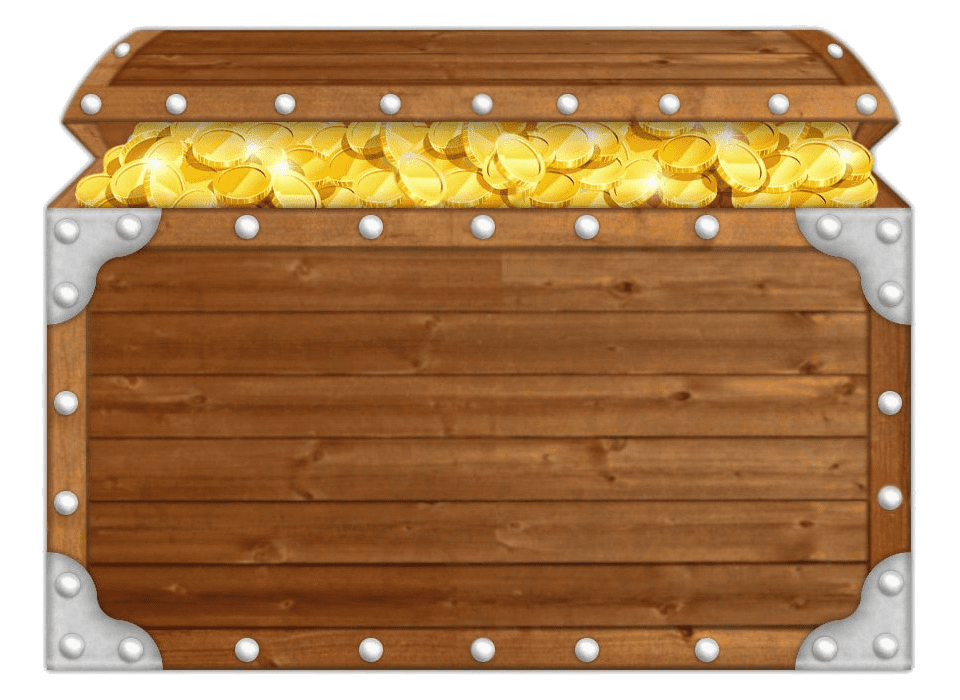
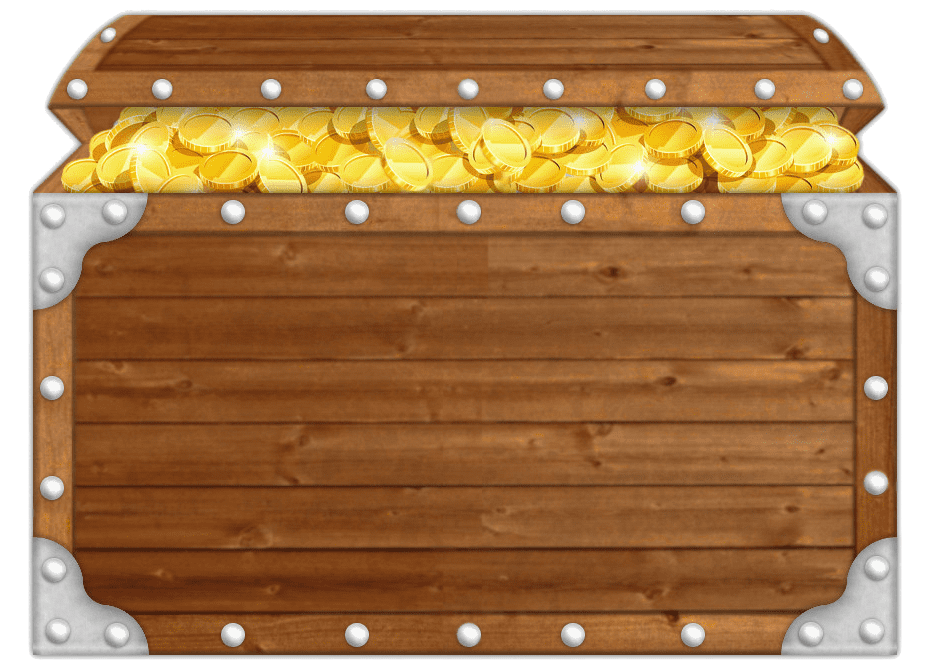
new alerts, new box, fixed view for firefox

diff --git a/views/game/game.html b/views/game/game.html
@@ -20,13 +20,12 @@
             </select>
          </p>
          <p>Способ доставки:
-            <select required ng-model="dostavka">
+            <select required ng-model="dostavka" ng-options="dostavka as dostavka.sposob for dostavka in detail.dostavka">
                <option value="" disabled selected>Выберите способ доставки</option>
-               <option ng-repeat="dostavka in detail.dostavka">{{dostavka.sposob}}</option>
             </select>
          </p>
          <p>Ник персонажа:
-            <input ng-model="nickname" pattern="^[а-яА-ЯёЁa-zA-Z0-9/.^!|$%&*#-_?:https??@?]{3,20}$" required placeholder="Введите ник персонажа">
+            <input required ng-model="nickname" pattern="^[а-яА-ЯёЁa-zA-Z0-9/.^!|$%&*#-_?:https??@?]{3,20}$" placeholder="Введите ник персонажа">
          </p>
          <p class="col-sm-6">Получу:
             <input required ng-model="model.name" pattern="^[0-9.]{0,13}$">
@@ -41,13 +40,12 @@
       </div>
       <div class="col-sm-6">
          <p>Сторона:
-            <select>
-               <option disabled selected>Выберите сторону</option>
-               <option ng-repeat="storona in detail.storonu">{{storona.name}}</option>
+            <select ng-model="storona" ng-options="storona as storona.name for storona in detail.storonu">
+               <option value="" disabled selected>Выберите сторону</option>
             </select>
          </p>
          <p>Електронный адрес:
-            <input ng-model="email" type="email" placeholder="Введите ваш e-mail" required>
+            <input required ng-model="email" type="email" placeholder="Введите ваш e-mail">
          </p>
          <p>Контактные данные:
             <input ng-model="contacts" required pattern="^[а-яА-ЯёЁa-zA-Z0-9/.\s-_?:https?]{5,150}$" placeholder="Введите ваш vk, skype и т.п.">
@@ -62,13 +60,15 @@
             </select>
          </p>
       </div>
-      <p id="error" ng-style="error">Укажите сервер, чтобы посчитать валюту</p>
       <div id="zakazat">
          <button type="submit" class="btn btn-success">Отправить заказ
             <span class="indicator glyphicon glyphicon-ok" ng-hide="zakaz.$invalid"></span>
             <span class="indicator glyphicon glyphicon-remove" ng-show="zakaz.$invalid"></span>
          </button>
       </div>
+   </div>
+   <div class="alert alert-info" ng-hide="model.selectedCategory">
+      <strong>Внимание!</strong> Чтобы посчитать цену, нужно выбрать сначала сервер!
    </div>
    <div class="alert alert-danger" ng-show="zakaz.$invalid">
       <strong>Ваш заказ не готов к обработке!</strong> Пожалуйста, заполните все необходимые поля. Когда заказ будет готов к отправке, индикатор <span class="glyphicon glyphicon-remove"></span> измениться на <span class="glyphicon glyphicon-ok".></span> и это сообщение пропадет.
@@ -78,7 +78,7 @@
    </div>
 </form>
 
-<div class="panel panel-default">
+<div class="panel panel-default tabl">
    <div class="panel-heading">Цены на игровую валюту {{detail.title}}</div>
    <table class="table">
       <thead>

diff --git a/views/game/game.css b/views/game/game.css
@@ -1,7 +1,7 @@
 #sunduk{
    font-family: OpenSans-Semibold, sans-serif;
    text-shadow: 2px 1px 1px #000;
-   padding-top: 28%;
+   padding-top: 26%;
    padding-bottom: 8%;
    padding-left: 10%;
    padding-right: 10%;
@@ -45,6 +45,8 @@
 }
 
 #sunduk button{
+   position: relative;
+   top: 4px;
    height: 45px;
    border: none;
    color: whitesmoke;
@@ -64,16 +66,6 @@
 #sunduk p{
    margin 0px;
    padding-left: 0px;
-}
-
-#error{
-   margin-bottom: 5px;
-/*   text-indent: 2.5%;*/
-   color: yellow;
-   text-shadow: none;
-   font-size: 90%;
-   text-align: center;
-   width: 50%;
 }
 
 #zakazat {
@@ -97,18 +89,21 @@ thead tr th{
    line-height: 14px !important;
    font-family: OpenSans-Bold, sans-serif !important;
 }
+
 .indicator{
    position: relative;
    top: 4px;
 }
-form{
-   display: flex;
-   flex-direction: column;
-   align-items: center;
-}
+
 .alert{
-   width: 93.5%;
-   position: relative;
-   top: -15px;
-   margin-bottom: 0px;
+   margin-top: 10px;
+   margin-bottom: 20px;
+}
+
+.alert-info{
+   margin-bottom: -3px;
+}
+
+.tabl{
+   margin-top: 10px;
 }

diff --git a/views/postavshikam/postavshikam.html b/views/postavshikam/postavshikam.html
@@ -19,7 +19,7 @@
       <p><br>Для добавления в поставщики следует написать по контактам или же заполнить форму ниже:</p>
       <form name="postavshik" ng-submit="submit()">
          <div class="thumbnail col-sm-8">
-            <select required ng-model="model.selectedCategory" ng-options="game as game.title for game in games">
+            <select required ng-model="selectgame" ng-options="game as game.title for game in games">
                <option value="" disabled selected>Выберите игру</option>
             </select>
             <textarea pattern="^[а-яА-ЯёЁa-zA-Z0-9/.\s-_?:https??@?]{10,250}$" ng-model="data" placeholder="Укажите сервер и количество игровой валюты. Если вы заходете в игру в определенное время суток - напишите нам об этом" required></textarea>

diff --git a/css/media-queries.css b/css/media-queries.css
@@ -51,6 +51,9 @@
       border-radius: 13px;
       margin-bottom: 10px;
    }
+   .alert{
+      margin-bottom: 10px;
+   }
 }
 
 @media (max-width: 1200px){
@@ -313,7 +316,6 @@
    }
    #sunduk{
       margin-bottom: 10px;
-      height: 619px;
       font-size: 16px;
    }
    #sunduk :nth-child(5),
@@ -323,18 +325,6 @@
    #rezultat{
       width: 100%;
       margin-bottom: 8px;
-   }
-   #error{
-      width: 60%;
-      position: relative;
-      top: -285px;
-      left: 50px;
-      line-height: 13px;
-      margin: 0;
-   }
-   #zakazat{
-      position: relative;
-      top: -27px;
    }
    .alert{
       width: 100%;

diff --git a/views/postavshikam/postavshikam.js b/views/postavshikam/postavshikam.js
@@ -1,7 +1,1 @@
 $.MenuChoise(7,4);
-
-//$('button').click(function () {
-//   $(this).appendChild
-//   $('#gotovo').addClass("glyphicon glyphicon-ok");
-//   $(this).addClass("disabled");
-//});
